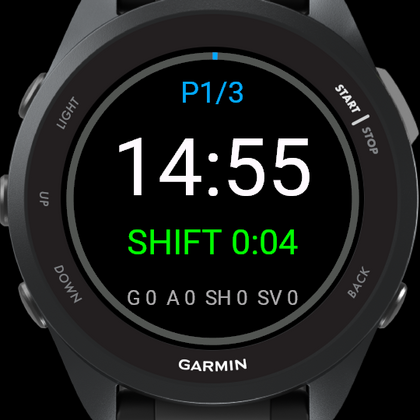
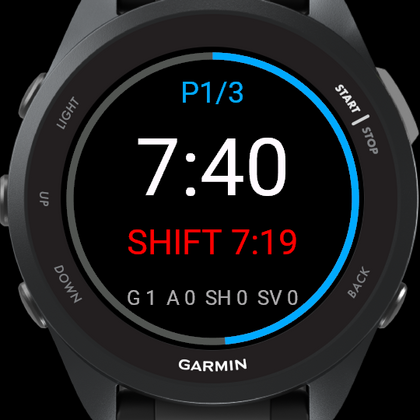
Use a running-game screenshot that shows the period ring and a logged goal
The previous capture was taken seconds after start, so the period arc was a
single pixel and every counter was zero.

diff --git a/README.md b/README.md
@@ -9,7 +9,7 @@ so the same build runs across the Garmin watch range.
 
 <p align="center">
   <img src="docs/screenshots/01-ready.png" width="24%" alt="Ready to start" />
-  <img src="docs/screenshots/02-running.png" width="24%" alt="Clock running" />
+  <img src="docs/screenshots/02-running.png" width="24%" alt="Clock running, period ring filling, goal logged" />
   <img src="docs/screenshots/03-shift-alert.png" width="24%" alt="Shift over target" />
   <img src="docs/screenshots/04-menu.png" width="24%" alt="In-game menu" />
 </p>
